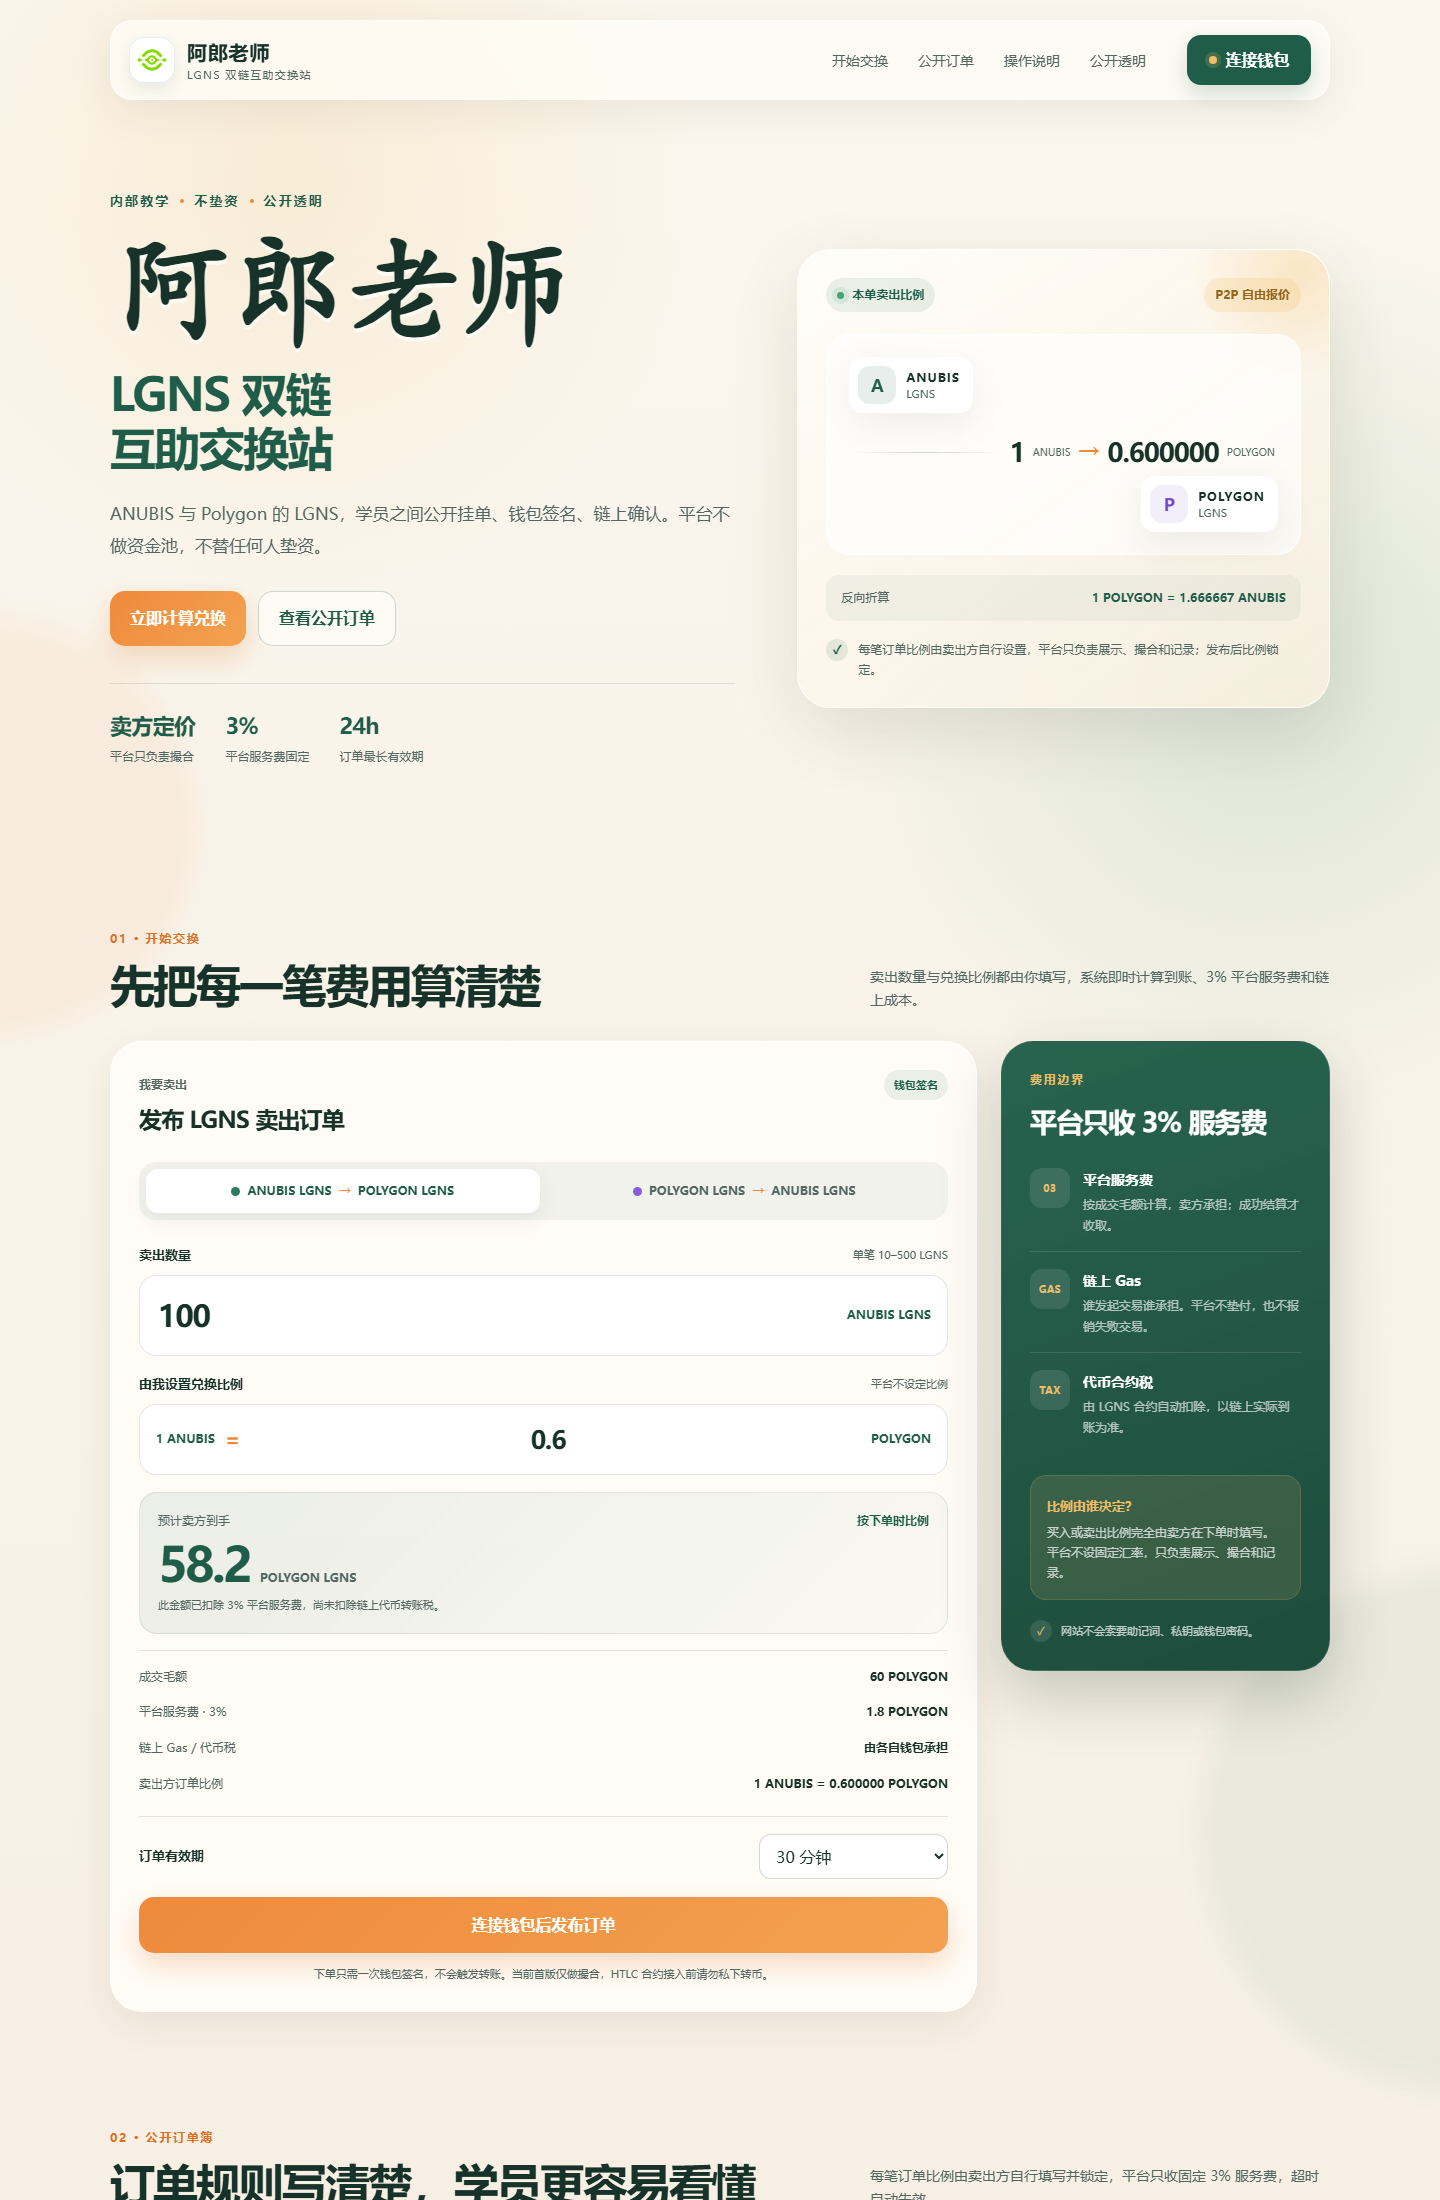
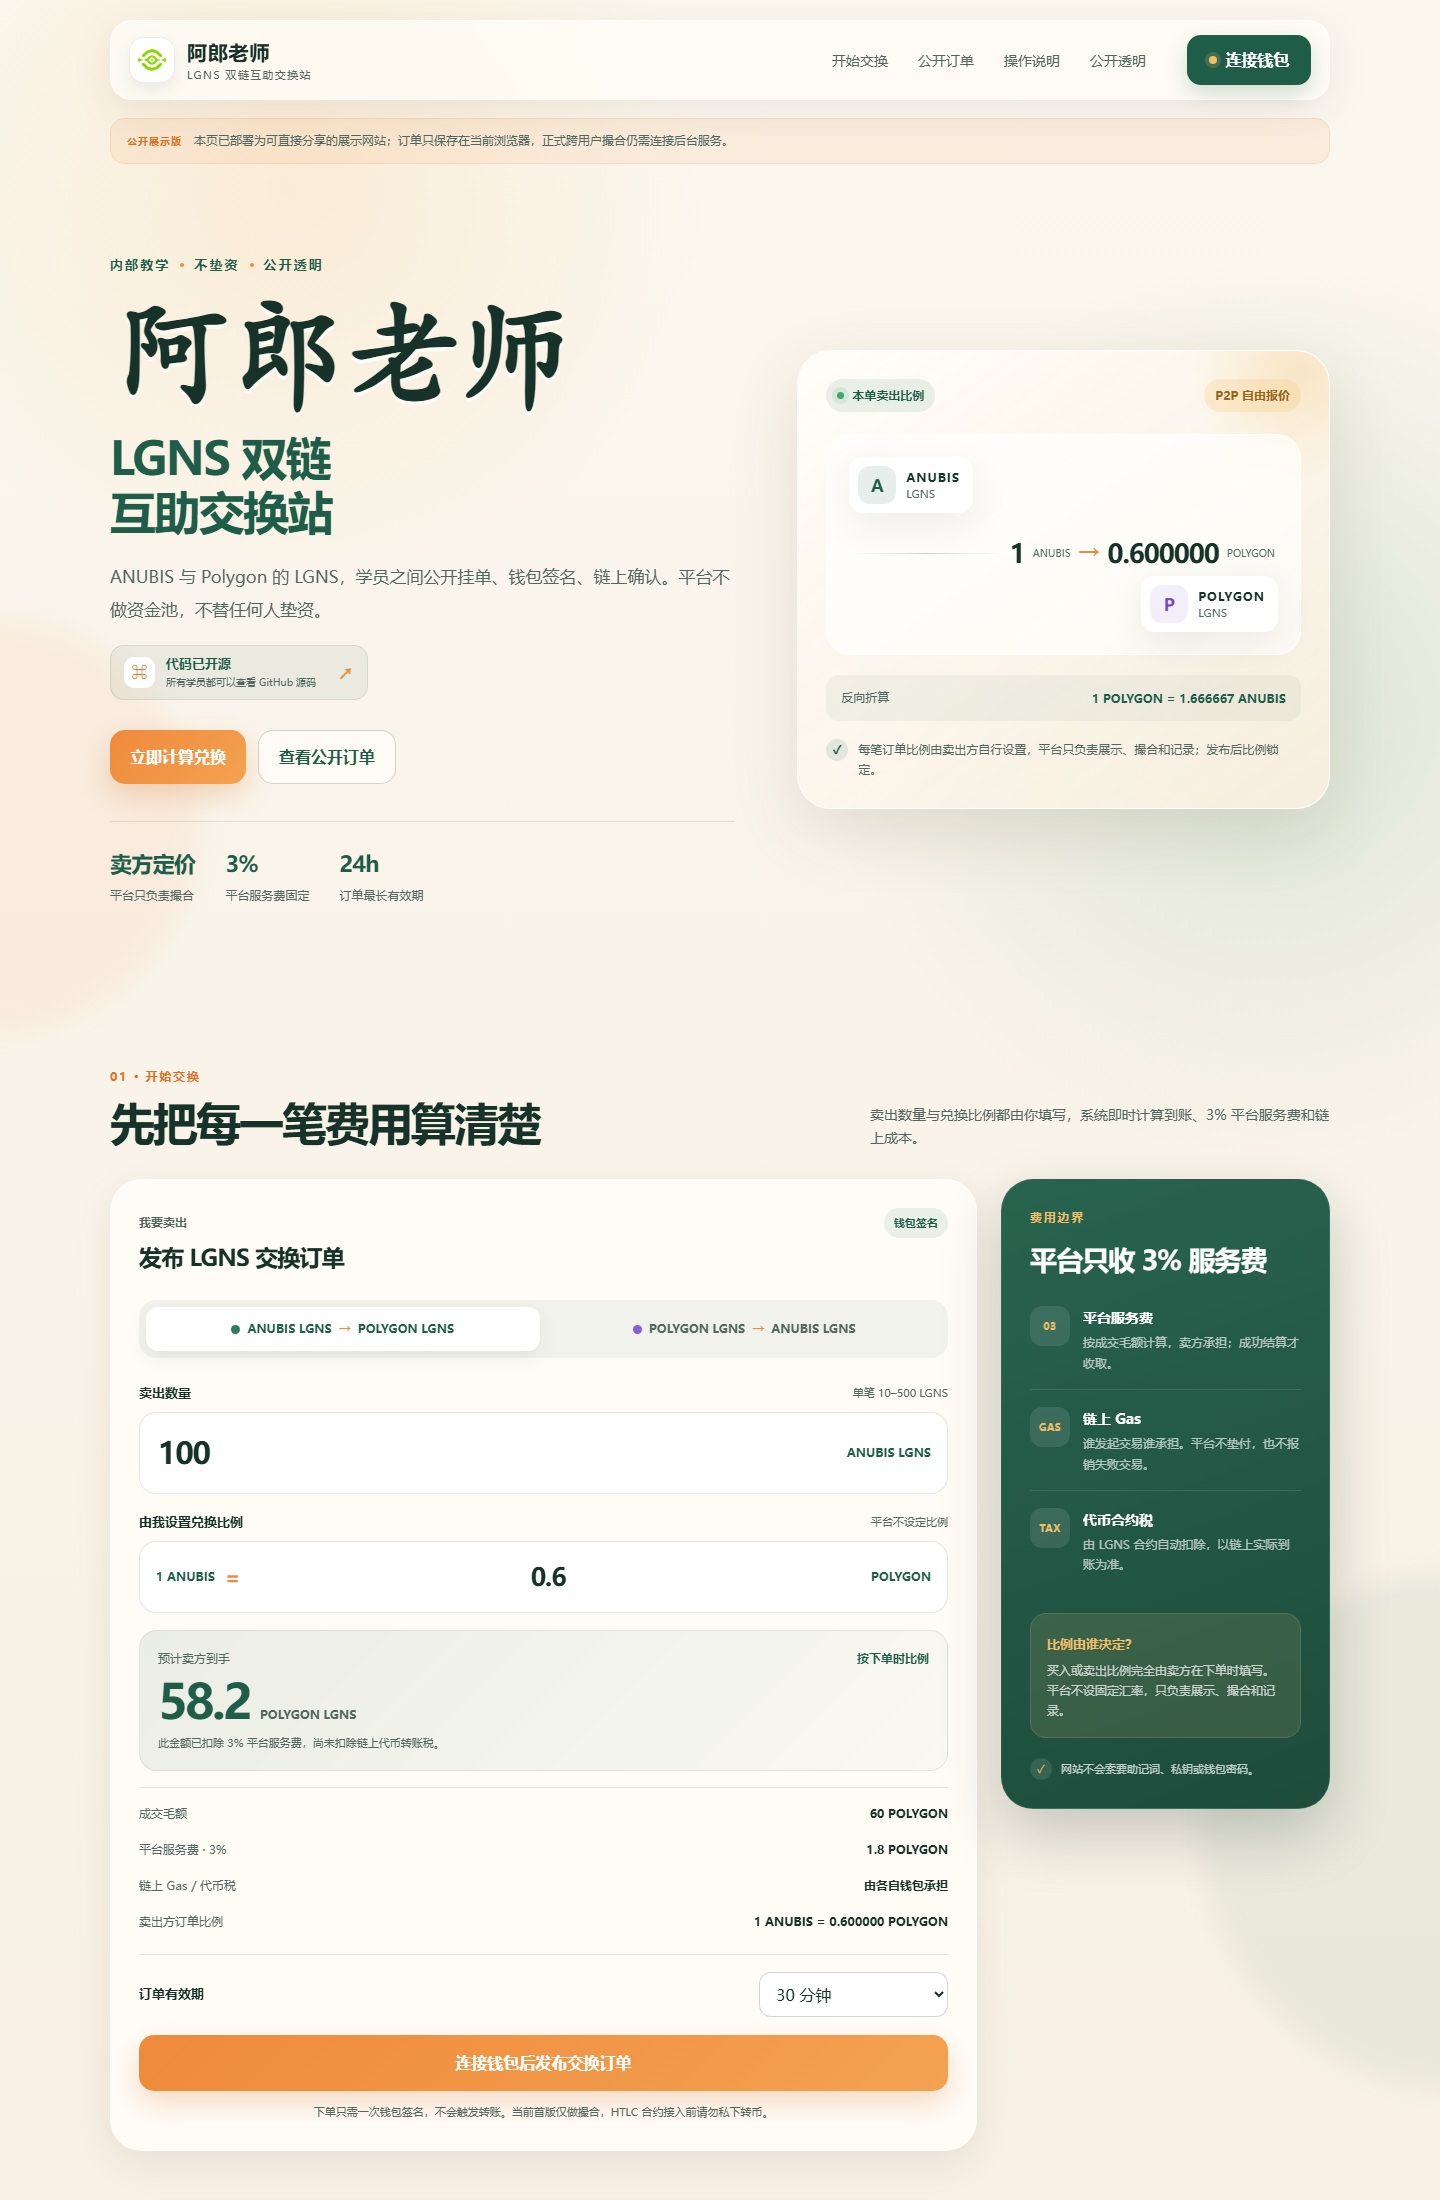
Add files via upload

diff --git a/static-api.js b/static-api.js
@@ -1,0 +1,90 @@
+(() => {
+'use strict';
+
+window.ALANG_STATIC_DEMO = location.protocol === 'file:' || !['127.0.0.1', 'localhost'].includes(location.hostname);
+const STATIC_ORDERS_KEY = 'alang_lgns_p2p_orders_v1';
+const round6 = value => Math.round((Number(value) + Number.EPSILON) * 1e6) / 1e6;
+const readOrders = () => {
+  try {
+    const orders = JSON.parse(localStorage.getItem(STATIC_ORDERS_KEY) || '[]');
+    return Array.isArray(orders) ? orders : [];
+  } catch (_) { return []; }
+};
+const writeOrders = orders => localStorage.setItem(STATIC_ORDERS_KEY, JSON.stringify(orders));
+const staticOrderId = () => 'DEMO-' + Date.now().toString(36).toUpperCase() + '-' + Math.random().toString(16).slice(2, 8).toUpperCase();
+
+window.ALANG_STATIC_API = async function staticApi(path, options = {}) {
+  const method = String(options.method || 'GET').toUpperCase();
+  const body = options.body ? JSON.parse(options.body) : {};
+  if (method === 'GET' && path === '/api/config') {
+    return {
+      ok: true,
+      pricingMode: 'seller',
+      feeBps: 300,
+      feePercent: 3,
+      minOrder: 10,
+      maxOrder: 500,
+      maxExpiryMinutes: 1440,
+      minSellerRatio: 0.000001,
+      maxSellerRatio: 10000,
+      updatedAt: new Date().toISOString(),
+      settlementMode: 'static-demo',
+      notice: '公开展示版：订单只保存在当前浏览器，正式撮合需要连接后台服务。'
+    };
+  }
+  if (method === 'GET' && path === '/api/orders') {
+    const now = Date.now();
+    const orders = readOrders().map(order => {
+      if (order.status === 'open' && new Date(order.expiresAt).getTime() <= now) return { ...order, status: 'expired' };
+      return order;
+    });
+    writeOrders(orders);
+    return { ok: true, orders };
+  }
+  if (method === 'POST' && path === '/api/orders') {
+    const sourceAmount = Number(body.sourceAmount);
+    const ratio = Number(body.sellerRatio);
+    if (!body.wallet || !body.signature) throw new Error('请先连接钱包并完成签名');
+    if (!Number.isFinite(sourceAmount) || sourceAmount < 10 || sourceAmount > 500) throw new Error('卖出数量需在 10–500 LGNS 之间');
+    if (!Number.isFinite(ratio) || ratio <= 0) throw new Error('请填写有效的卖出比例');
+    const targetAmount = round6(sourceAmount * ratio);
+    const feeAmount = round6(targetAmount * 0.03);
+    const sellerReceives = round6(targetAmount - feeAmount);
+    const order = {
+      id: staticOrderId(),
+      side: body.side === 'polygonToAnubis' ? 'polygonToAnubis' : 'anubisToPolygon',
+      sellerWallet: body.wallet,
+      takerWallet: null,
+      sourceAmount: round6(sourceAmount),
+      targetAmount,
+      feeAmount,
+      sellerReceives,
+      ratioLocked: ratio,
+      feeBpsLocked: 300,
+      createdAt: new Date().toISOString(),
+      expiresAt: new Date(Date.now() + Math.min(Math.max(Number(body.expiryMinutes) || 30, 5), 1440) * 60000).toISOString(),
+      status: 'open',
+      acceptedAt: null
+    };
+    const orders = readOrders();
+    orders.unshift(order);
+    writeOrders(orders);
+    return { ok: true, order };
+  }
+  const accept = path.match(/^\/api\/orders\/([^/]+)\/accept$/);
+  if (method === 'POST' && accept) {
+    if (!body.wallet || !body.signature) throw new Error('请先连接钱包并完成签名');
+    const orders = readOrders();
+    const order = orders.find(item => item.id === decodeURIComponent(accept[1]));
+    if (!order) throw new Error('订单不存在');
+    if (order.status !== 'open') throw new Error('订单当前不可接单');
+    if (order.sellerWallet.toLowerCase() === String(body.wallet).toLowerCase()) throw new Error('不能接自己的订单');
+    order.status = 'matched';
+    order.takerWallet = body.wallet;
+    order.acceptedAt = new Date().toISOString();
+    writeOrders(orders);
+    return { ok: true, order };
+  }
+  throw new Error('公开展示版暂不支持该操作');
+};
+})();

diff --git a/index.html b/index.html
@@ -6,8 +6,8 @@
   <meta name="theme-color" content="#f7f0e4">
   <title>阿郎老师 · LGNS 双链互助交换站</title>
   <meta name="description" content="阿郎老师的 LGNS 双链 P2P 互助交换站，支持 ANUBIS 与 Polygon 之间公开订单撮合、钱包签名与透明费率展示。">
-  <link rel="icon" href="/assets/logo.png">
-  <link rel="stylesheet" href="/styles.css">
+  <link rel="icon" href="./assets/logo.png">
+  <link rel="stylesheet" href="./styles.css">
 </head>
 <body>
   <div class="page-glow page-glow-a"></div>
@@ -15,7 +15,7 @@
 
   <header class="site-header" id="top">
     <a class="brand" href="#top" aria-label="返回顶部">
-      <span class="brand-logo-wrap"><img src="/assets/logo.png" alt="阿郎老师品牌标志" class="brand-logo"></span>
+      <span class="brand-logo-wrap"><img src="./assets/logo.png" alt="阿郎老师品牌标志" class="brand-logo"></span>
       <span class="brand-copy">
         <strong>阿郎老师</strong>
         <small>LGNS 双链互助交换站</small>
@@ -39,6 +39,11 @@
         <div class="eyebrow"><span>内部教学</span><i></i><span>不垫资</span><i></i><span>公开透明</span></div>
         <h1><span class="hero-name">阿郎老师</span><small>LGNS 双链<br>互助交换站</small></h1>
         <p class="hero-lead">ANUBIS 与 Polygon 的 LGNS，学员之间公开挂单、钱包签名、链上确认。平台不做资金池，不替任何人垫资。</p>
+        <a class="open-source-note" href="https://github.com/dixonwei/alang-lgns-p2p" target="_blank" rel="noopener noreferrer">
+          <span class="open-source-icon">⌘</span>
+          <span><strong>代码已开源</strong><small>所有学员都可以查看 GitHub 源码</small></span>
+          <b>↗</b>
+        </a>
         <div class="hero-actions">
           <a class="button button-primary" href="#exchange">立即计算兑换</a>
           <a class="button button-ghost" href="#orders">查看公开订单</a>
@@ -251,7 +256,7 @@
           <span class="section-kicker">04 · 公开透明</span>
           <h2>比例自由，规则固定</h2>
           <p>每笔订单的卖出方、比例、数量、服务费和状态都公开可查。平台不操纵价格，只维护规则与撮合记录。</p>
-          <a class="text-link" href="/admin.html">管理员入口 <span>→</span></a>
+          <a class="text-link" href="./admin.html">管理员入口 <span>→</span></a>
         </div>
         <div class="transparency-grid">
           <div><strong>自由</strong><span>卖方设置比例</span></div>
@@ -264,9 +269,9 @@
   </main>
 
   <footer class="site-footer section-shell">
-    <div class="footer-brand"><img src="/assets/logo.png" alt=""><div><strong>阿郎老师</strong><span>LGNS 双链互助交换站</span></div></div>
+    <div class="footer-brand"><img src="./assets/logo.png" alt=""><div><strong>阿郎老师</strong><span>LGNS 双链互助交换站</span></div></div>
     <p>仅用于内部教学与学员互助。数字资产交易有风险，请确认合约地址和收款地址后再操作。</p>
-    <div class="footer-links"><a href="#top">回到顶部</a><a href="/admin.html">管理员入口</a></div>
+    <div class="footer-links"><a href="#top">回到顶部</a><a href="https://github.com/dixonwei/alang-lgns-p2p" target="_blank" rel="noopener noreferrer">代码已开源</a><a href="./admin.html">管理员入口</a></div>
   </footer>
 
   <div class="modal-backdrop" id="orderModal" aria-hidden="true">
@@ -294,6 +299,7 @@
   </div>
 
   <div class="toast" id="toast" role="status" aria-live="polite"></div>
-  <script src="/app.js"></script>
+  <script src="./static-api.js"></script>
+  <script src="./app.js"></script>
 </body>
 </html>

diff --git a/styles.css b/styles.css
@@ -95,6 +95,13 @@ img { max-width: 100%; }
 .hero h1 small { display: block; margin-top: 19px; font-size: clamp(29px, 3.2vw, 46px); line-height: 1.18; letter-spacing: -0.035em; color: var(--green); font-weight: 700; }
 .hero-lead { max-width: 620px; margin: 0; color: var(--ink-soft); font-size: 17px; line-height: 1.9; }
 .hero-actions { display: flex; gap: 12px; flex-wrap: wrap; margin-top: 30px; }
+.open-source-note { display: flex; align-items: center; gap: 11px; width: max-content; max-width: 100%; margin-top: 20px; padding: 10px 13px; border-radius: 14px; color: var(--green); background: rgba(31,93,72,.065); border: 1px solid rgba(31,93,72,.12); transition: transform .2s ease, background .2s ease; }
+.open-source-note:hover { transform: translateY(-2px); background: rgba(31,93,72,.1); }
+.open-source-icon { display: grid; place-items: center; width: 31px; height: 31px; border-radius: 10px; background: #fff; color: var(--orange-deep); font-weight: 900; }
+.open-source-note > span:nth-child(2) { display: flex; flex-direction: column; line-height: 1.3; }
+.open-source-note strong { font-size: 13px; }
+.open-source-note small { margin-top: 3px; color: var(--ink-soft); font-size: 10px; }
+.open-source-note > b { margin-left: 10px; color: var(--orange); font-size: 17px; }
 .button { border: 0; border-radius: 15px; padding: 13px 20px; font-weight: 800; display: inline-flex; align-items: center; justify-content: center; gap: 8px; transition: transform 0.18s ease, box-shadow 0.18s ease, background 0.18s ease; }
 .button:hover { transform: translateY(-2px); }
 .button-primary { background: linear-gradient(135deg, var(--orange), #f3a251); color: #fff; box-shadow: 0 12px 28px rgba(219, 111, 35, 0.24); }
@@ -343,3 +350,7 @@ img { max-width: 100%; }
 @media (prefers-reduced-motion: reduce) {
   *, *::before, *::after { scroll-behavior: auto !important; animation-duration: 0.01ms !important; transition-duration: 0.01ms !important; }
 }
+.public-demo-banner { width: min(var(--max), calc(100% - 48px)); margin: 18px auto 0; padding: 12px 16px; display: flex; align-items: center; gap: 12px; border-radius: 15px; background: rgba(239,138,59,.09); border: 1px solid rgba(239,138,59,.16); color: var(--ink-soft); font-size: 12px; }
+.public-demo-banner > span { flex: 0 0 auto; color: var(--orange-deep); font-weight: 900; font-size: 10px; letter-spacing: .1em; }
+.public-demo-banner p { margin: 0; }
+@media (max-width: 760px) { .public-demo-banner { width: calc(100% - 28px); align-items: flex-start; flex-direction: column; gap: 3px; } }

diff --git a/app.js b/app.js
@@ -15,6 +15,7 @@ const state = {
 
 const $ = id => document.getElementById(id);
 const $$ = selector => Array.from(document.querySelectorAll(selector));
+const STATIC_DEMO = Boolean(window.ALANG_STATIC_DEMO);
 
 function escapeHtml(value) {
   return String(value ?? '').replace(/[&<>"']/g, ch => ({ '&': '&amp;', '<': '&lt;', '>': '&gt;', '"': '&quot;', "'": '&#39;' }[ch]));
@@ -49,6 +50,7 @@ function showToast(message, type = 'ok') {
 }
 
 async function api(path, options = {}) {
+  if (STATIC_DEMO) return window.ALANG_STATIC_API(path, options);
   const res = await fetch(path, Object.assign({
     headers: { 'Content-Type': 'application/json' }
   }, options));
@@ -446,8 +448,19 @@ function bindEvents() {
   });
 }
 
+function addStaticDemoBanner() {
+  if (!STATIC_DEMO) return;
+  document.querySelectorAll('a[href="./admin.html"]').forEach(link => { link.style.display = 'none'; });
+  if (document.querySelector('.public-demo-banner')) return;
+  const banner = document.createElement('div');
+  banner.className = 'public-demo-banner';
+  banner.innerHTML = '<span>公开展示版</span><p>本页已部署为可直接分享的展示网站；订单只保存在当前浏览器，正式跨用户撮合仍需连接后台服务。</p>';
+  const main = document.querySelector('main');
+  main.insertBefore(banner, main.firstChild);
+}
 async function init() {
   bindEvents();
+  addStaticDemoBanner();
   try {
     await loadConfig();
     await loadOrders();

diff --git a/admin.html b/admin.html
@@ -5,17 +5,17 @@
   <meta name="viewport" content="width=device-width, initial-scale=1">
   <meta name="theme-color" content="#173329">
   <title>管理员控制台 · 阿郎老师 LGNS 双链互助交换站</title>
-  <link rel="icon" href="/assets/logo.png">
-  <link rel="stylesheet" href="/styles.css">
-  <link rel="stylesheet" href="/admin.css">
+  <link rel="icon" href="./assets/logo.png">
+  <link rel="stylesheet" href="./styles.css">
+  <link rel="stylesheet" href="./admin.css">
 </head>
 <body class="admin-body">
   <header class="site-header admin-header">
-    <a class="brand" href="/">
-      <span class="brand-logo-wrap"><img src="/assets/logo.png" alt="" class="brand-logo"></span>
+    <a class="brand" href="./">
+      <span class="brand-logo-wrap"><img src="./assets/logo.png" alt="" class="brand-logo"></span>
       <span class="brand-copy"><strong>阿郎老师</strong><small>管理员控制台</small></span>
     </a>
-    <a class="admin-back-link" href="/">返回公开网站</a>
+    <a class="admin-back-link" href="./">返回公开网站</a>
     <button class="wallet-button admin-logout hidden" id="logoutButton" type="button"><span class="wallet-dot"></span>退出后台</button>
   </header>
 
@@ -81,6 +81,6 @@
   </main>
 
   <div class="toast" id="toast" role="status" aria-live="polite"></div>
-  <script src="/admin.js"></script>
+  <script src="./admin.js"></script>
 </body>
 </html>

diff --git a/GITHUB发布说明.md b/GITHUB发布说明.md
@@ -30,3 +30,12 @@ git push -u origin main
 ```
 
 不要把 `data/admin-password.txt` 上传到公开仓库。
+## 启用 GitHub Pages
+
+1. 打开 https://github.com/dixonwei/alang-lgns-p2p/settings/pages
+2. Source 选择 `Deploy from a branch`。
+3. Branch 选择 `main`，目录选择 `/ (root)`。
+4. 点击 Save。
+5. 等待约 1 分钟，访问 https://dixonwei.github.io/alang-lgns-p2p/ 。
+
+公开展示版会把订单保存在当前浏览器，不会同步给其他学员。正式的跨用户撮合需要部署 Node.js 后端服务。

diff --git a/README.md b/README.md
@@ -63,3 +63,13 @@
 ## 链上担保合约
 
 `contracts/LGNSHTLC.sol` 已加入双链 HTLC 基础源码和部署检查说明。该合约当前未部署、未审计，不能用于真实资金。
+
+## 公开展示网址
+
+GitHub 仓库：https://github.com/dixonwei/alang-lgns-p2p
+
+启用 GitHub Pages 后，可发给学员的公开展示网址：
+
+https://dixonwei.github.io/alang-lgns-p2p/
+
+公开展示版使用浏览器本地订单记录，适合展示页面与操作流程；正式跨用户撮合仍需部署 Node.js 后端。
